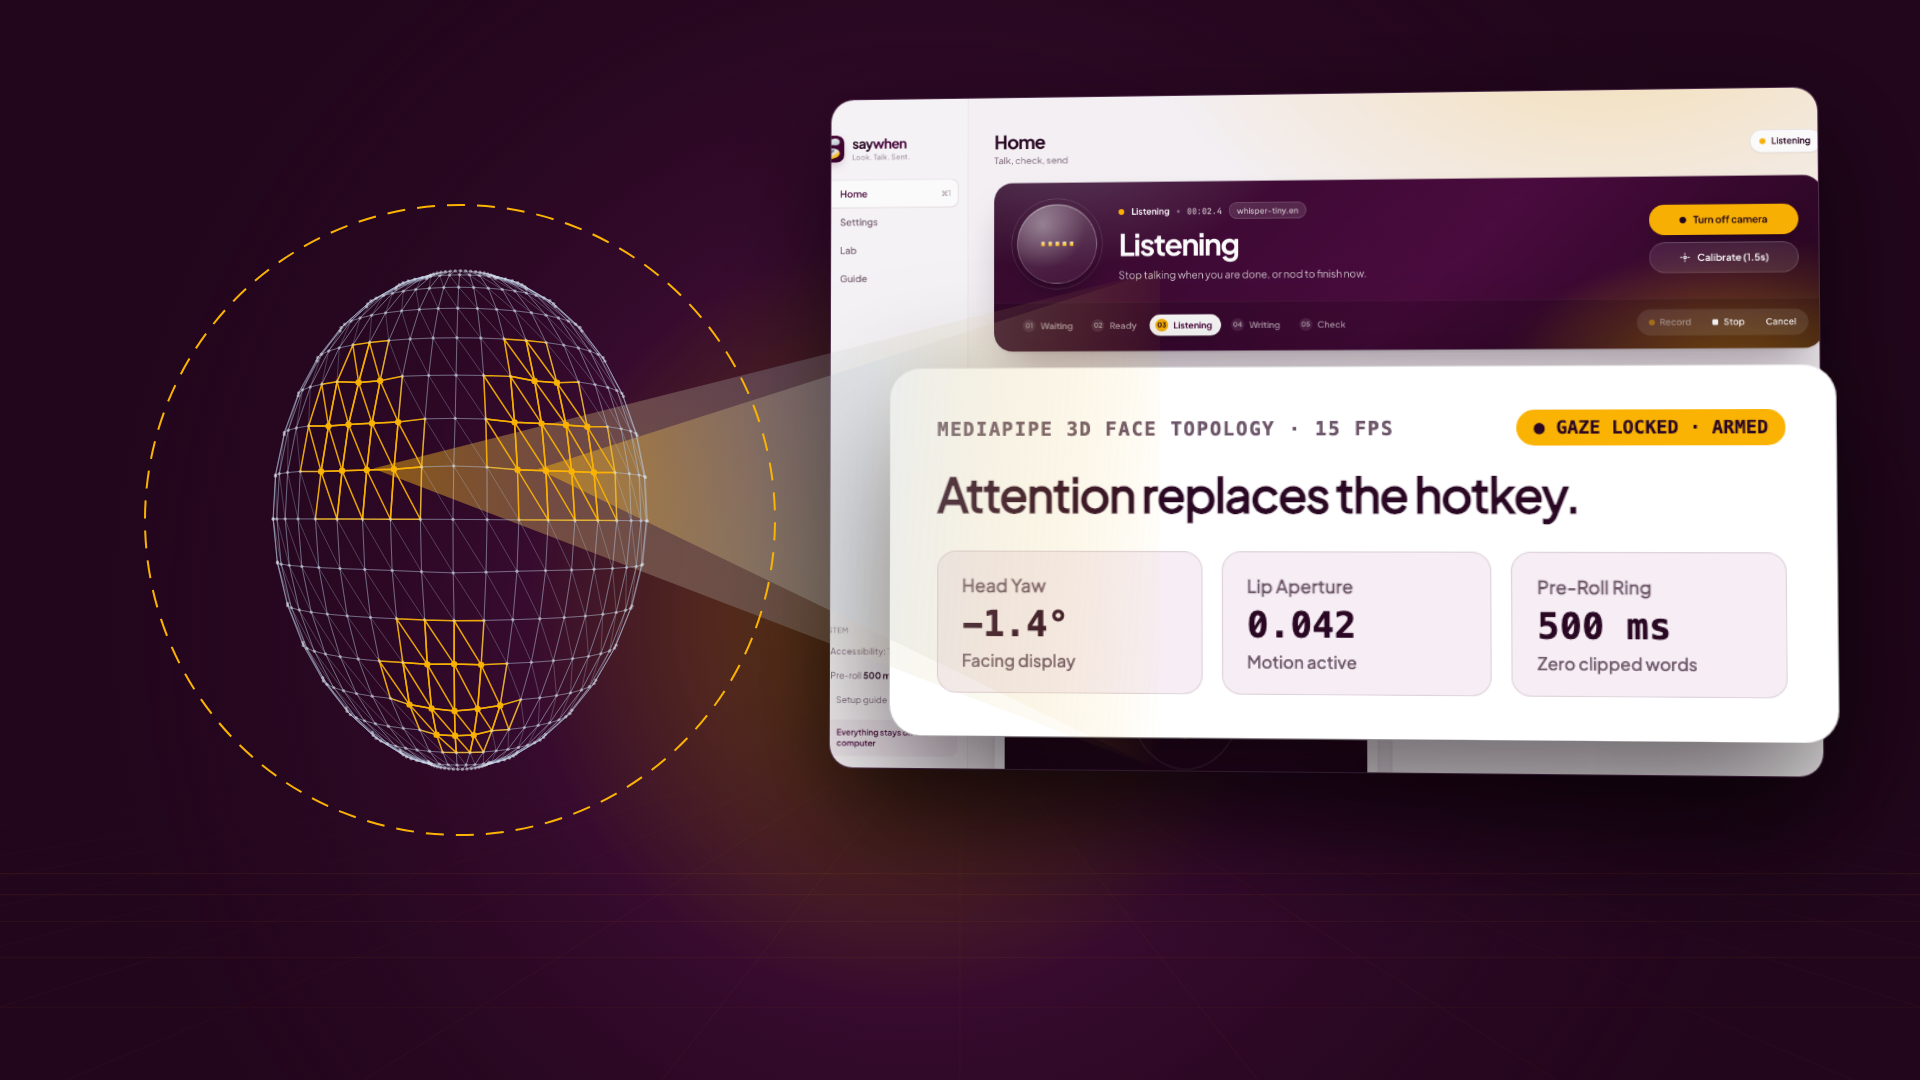
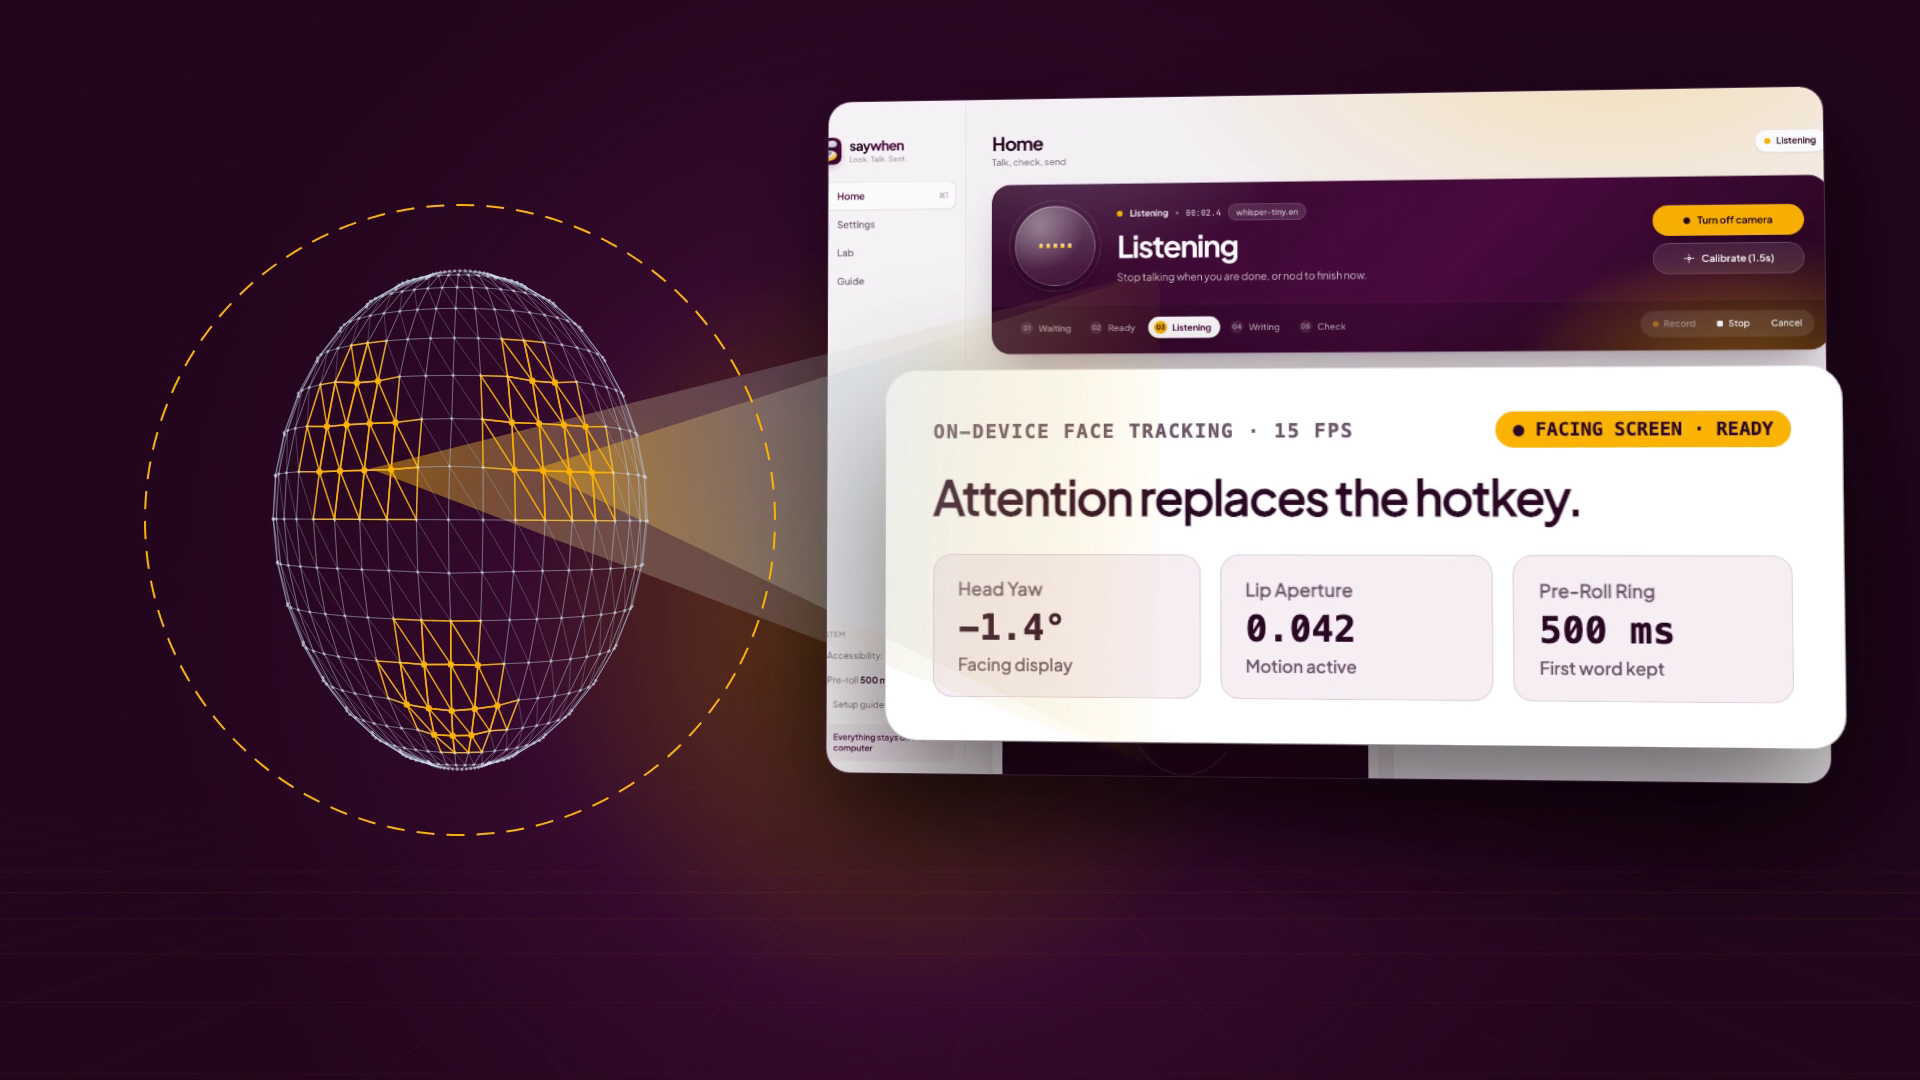
film: correct on-screen claims and remove the mouse pointer
Bring the launch film's text in line with what the docs support:
"First word kept" instead of "Zero clipped words", "Runs On Your
Computer" and "Cloud Off By Default" instead of "100% On-Device" and
"Zero Cloud Calls", v0.2.0 and 45 passed with 3 ignored in the terminal
scene, and the real Ghostty bundle id. Replace the "gaze locked, armed"
labels with plain ones.

Remove the simulated pointer that clicked Enter, since saywhen presses
Enter by itself. Regenerate the README clip and the poster from the new
render.

diff --git a/film/src/SaywhenDemo.tsx b/film/src/SaywhenDemo.tsx
@@ -1097,11 +1097,11 @@ export const SaywhenDemo: React.FC = () => {
     { label: "MediaPipe 15 FPS.", acc: false },
     { label: "Silero VAD v5.", acc: false },
     { label: "Whisper Metal GPU.", acc: false },
-    { label: "Zero Cloud Calls.", acc: false },
+    { label: "Cloud Off By Default.", acc: false },
     { label: "Zero Telemetry.", acc: false },
     { label: "Cursor & Claude Code.", acc: false },
     { label: "Ghostty & Zed.", acc: false },
-    { label: "100% On-Device.", acc: true },
+    { label: "Runs On Your Computer.", acc: true },
   ];
   const RL = REEL_ITEMS.length - 1;
   const REH = 166;
@@ -1600,7 +1600,7 @@ export const SaywhenDemo: React.FC = () => {
                     letterSpacing: "0.08em",
                   }}
                 >
-                  MEDIAPIPE 3D FACE TOPOLOGY · 15 FPS
+                  ON-DEVICE FACE TRACKING · 15 FPS
                 </span>
                 <span
                   style={{
@@ -1613,7 +1613,7 @@ export const SaywhenDemo: React.FC = () => {
                     fontWeight: 700,
                   }}
                 >
-                  ● GAZE LOCKED · ARMED
+                  ● FACING SCREEN · READY
                 </span>
               </div>
 
@@ -1640,7 +1640,7 @@ export const SaywhenDemo: React.FC = () => {
                 {[
                   { k: "Head Yaw", v: "-1.4°", sub: "Facing display" },
                   { k: "Lip Aperture", v: "0.042", sub: "Motion active" },
-                  { k: "Pre-Roll Ring", v: "500 ms", sub: "Zero clipped words" },
+                  { k: "Pre-Roll Ring", v: "500 ms", sub: "First word kept" },
                 ].map((stat, idx) => (
                   <div
                     key={idx}
@@ -1958,7 +1958,7 @@ export const SaywhenDemo: React.FC = () => {
                       color: C.mutedDark,
                     }}
                   >
-                    Target: Ghostty (dev.mitchellh.ghostty)
+                    Target: Ghostty (com.mitchellh.ghostty)
                   </span>
                 </div>
                 <span
@@ -2200,7 +2200,7 @@ export const SaywhenDemo: React.FC = () => {
                     style={{ marginTop: 22, color: C.mutedDark, fontSize: 24 }}
                   >
                     <div>
-                      {"   "}Compiling saywhen v0.1.0
+                      {"   "}Compiling saywhen v0.2.0
                       (/Users/dev/saywhen/src-tauri)
                     </div>
                     {T6 >= 1.45 && (
@@ -2245,7 +2245,7 @@ export const SaywhenDemo: React.FC = () => {
                           display: "inline-block",
                         }}
                       >
-                        test result: ok. 48 passed; 0 failed; finished in 0.41s
+                        test result: ok. 45 passed; 0 failed; 3 ignored; finished in 0.41s
                       </div>
                     )}
                   </div>
@@ -2390,7 +2390,7 @@ export const SaywhenDemo: React.FC = () => {
                     color: C.mutedLight,
                   }}
                 >
-                  0 ms network latency · Deterministic Rust pass
+                  No network call · Deterministic Rust pass
                 </span>
               </div>
 
@@ -2515,7 +2515,7 @@ export const SaywhenDemo: React.FC = () => {
               {
                 title: "Pause.",
                 badge: "MODE 01 · ADAPTIVE SILENCE",
-                desc: "Waits 550 ms on a crisp command, or 1,100 ms mid-thought so it never cuts you off.",
+                desc: "Waits 550 ms on a crisp command, or 1,100 ms mid-thought, so you can finish the sentence.",
                 metric: "780 ms",
                 x: 160,
                 activeWindow: [0, 1.55],
@@ -3156,18 +3156,7 @@ export const SaywhenDemo: React.FC = () => {
         </div>
       </MotionGroup>
 
-      {/* Simulated Screen-Space Pointer for Beat 6 Send Press */}
-      {frame >= 585 && frame <= 628 && (
-        <SimulatedCursor
-          t={(frame - 585) / FPS}
-          keys={[
-            { t: 0, x: CX + 280, y: 420 },
-            { t: 0.55, x: CX + 110, y: 258 },
-          ]}
-          presses={[0.62]}
-          show={[0.05, 1.15]}
-        />
-      )}
+      {/* No mouse pointer in Beat 6: saywhen presses Enter by itself, hands-free. */}
 
       {/* Subtle Voiceover Captions at Bottom */}
       <FilmSubtitles frame={frame} />
